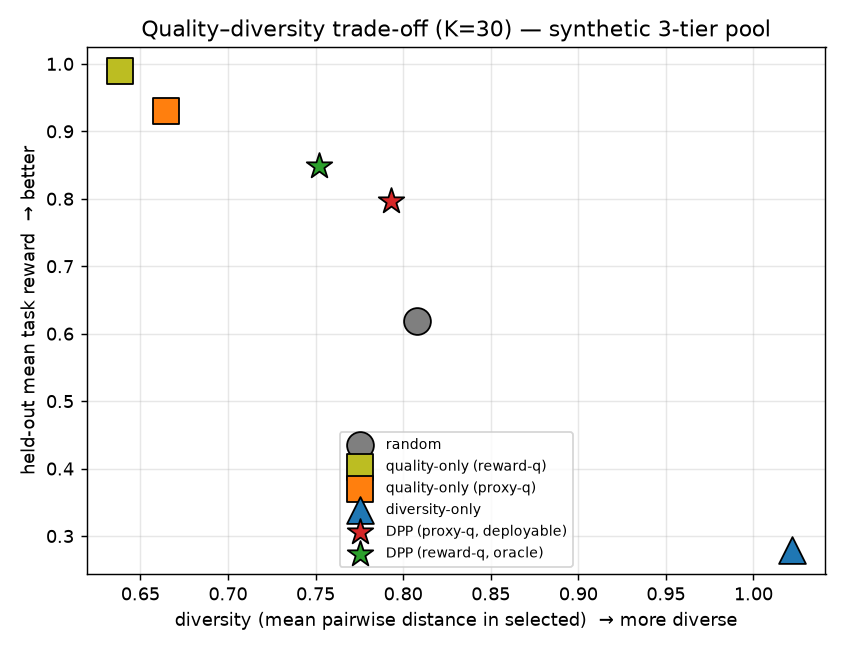
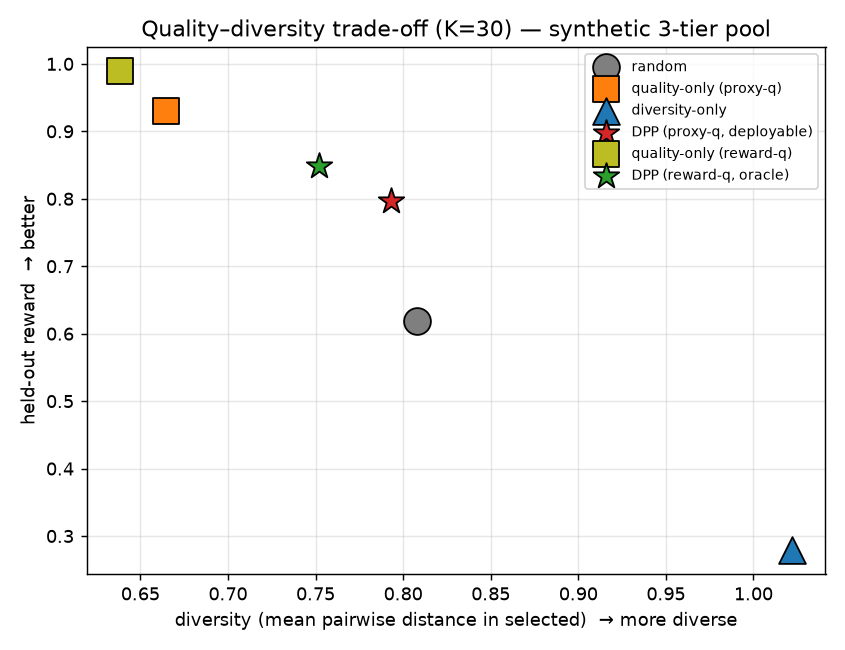
M1.5: real-data results on public LeRobot datasets (PushT + ALOHA-sim)
Ran the 6-selector proxy-q study on lerobot/pusht (206 demos) and lerobot/aloha_sim_insertion_human (50 demos, 14-DoF). Honest findings: on PushT reward-based curation picks measurably higher-reward demos than random (0.928 vs 0.893) and DPP adds diversity, but the reward-free proxy is uninformative (corr 0.09) because PushT ships only homogeneous expert teleop (reward band 0.81-0.95); next.success is absent. ALOHA-sim has no reward labels at all -> task-agnostic + proxy-only structural validation. Takeaway: the mixed-quality regime the method targets does not exist in public expert datasets and must be collected (M2). Adapter now handles missing reward/success gracefully; study reports n/a instead of crashing. README: Status box (M1.5 done), Real-data findings section. 31 offline tests still pass.

diff --git a/experiments/proxy_vs_oracle.py b/experiments/proxy_vs_oracle.py
@@ -1,27 +1,26 @@
 """M1.5 / M2.5: reward-free proxy-q curation study (synthetic OR real datasets).
 
-Compares six selectors and evaluates every selection against the HELD-OUT task
-reward/success -- a signal the proxy-q selectors never read (so a proxy-q win is
-not circular):
+Compares curation selectors and evaluates each selection against the HELD-OUT
+task reward -- a signal the proxy-q selectors never read (so a proxy-q win is not
+circular):
 
     random
-    quality-only (reward-q)   -- oracle, quality axis only
+    quality-only (reward-q)   -- oracle, quality axis only   (reward datasets only)
     quality-only (proxy-q)    -- deployable, quality axis only
     diversity-only            -- the failure-mode candidate
     DPP (proxy-q)             -- deployable quality x diversity
-    DPP (reward-q)            -- oracle quality x diversity
+    DPP (reward-q)            -- oracle quality x diversity    (reward datasets only)
 
 Sources:
-    synthetic  -- 3-tier expert/clumsy/noisy fixture (offline, $0)
-    pusht      -- lerobot/pusht                       (needs lerobot+torch)
-    aloha      -- lerobot/aloha_sim_insertion_human   (needs lerobot+torch)
-
-For real datasets there are no ground-truth tiers, so the composition diagnostic
-bins demos into reward terciles (used only for the plot, never for selection).
+    synthetic  -- 3-tier expert/clumsy/noisy fixture       (offline, $0)
+    pusht      -- lerobot/pusht                             (has reward)
+    aloha      -- lerobot/aloha_sim_insertion_human         (NO reward -> proxy-only,
+                  task-agnostic + diversity validation of the pipeline)
 
 Usage:
     python experiments/proxy_vs_oracle.py --source synthetic
     python experiments/proxy_vs_oracle.py --source pusht
+    python experiments/proxy_vs_oracle.py --source aloha
 """
 
 from __future__ import annotations
@@ -57,11 +56,10 @@ STYLE = {
 
 
 def load_pool(source: str, limit: int | None):
-    """Return a dict with embeddings, reward, success, kinematic proxies, and a
-    (name, color, mask) group spec for the composition diagnostic."""
     if source == "synthetic":
         p = make_labeled_pool(seed=0)
         p["name"] = "synthetic 3-tier pool"
+        p["reward_available"] = True
         p["groups"] = [
             ("expert", "tab:green", p["tier"] == EXPERT),
             ("clumsy", "gold", p["tier"] == CLUMSY),
@@ -75,17 +73,8 @@ def load_pool(source: str, limit: int | None):
 
     repo = "lerobot/pusht" if source == "pusht" else "lerobot/aloha_sim_insertion_human"
     d = load_lerobot_pool(repo, limit=limit, return_kinematics=True)
-    r = d["reward"]
-    lo, hi = np.quantile(r, [1 / 3, 2 / 3])
-    tercile = np.digitize(r, [lo, hi])  # 0 low, 1 mid, 2 high
     d["name"] = repo
-    d["groups"] = [
-        ("high-reward", "tab:green", tercile == 2),
-        ("mid-reward", "gold", tercile == 1),
-        ("low-reward", "tab:red", tercile == 0),
-    ]
-    d["bad_label"] = "low-reward%"
-    d["bad_mask"] = tercile == 0
+    d["reward_available"] = bool(np.isfinite(d["reward"]).any())
     return d
 
 
@@ -96,66 +85,102 @@ def run(source: str = "synthetic", k: int = 30, limit: int | None = None,
     X, reward, success = p["embeddings"], p["reward"], p["success"]
     n = len(X)
     k = min(k, n - 1)
+    reward_avail = p["reward_available"]
 
-    q_reward = normalize_quality(reward)
     q_proxy = proxy_quality(p["smoothness"], p["efficiency"], p["stability"])
-    corr = float(np.corrcoef(q_proxy, reward)[0, 1])
+    # evaluation score: the true reward when available, else the proxy itself
+    # (for reward-free datasets this is a structural/diversity validation only).
+    escore = reward if reward_avail else q_proxy
+    p["escore_name"] = "held-out reward" if reward_avail else "proxy score (no reward in dataset)"
+
+    # composition groups (terciles of the evaluation score) for real datasets
+    if source != "synthetic":
+        lo, hi = np.nanquantile(escore, [1 / 3, 2 / 3])
+        terc = np.digitize(escore, [lo, hi])
+        hi_name = "high-reward" if reward_avail else "high-proxy"
+        mid_name = "mid-reward" if reward_avail else "mid-proxy"
+        lo_name = "low-reward" if reward_avail else "low-proxy"
+        p["groups"] = [(hi_name, "tab:green", terc == 2),
+                       (mid_name, "gold", terc == 1),
+                       (lo_name, "tab:red", terc == 0)]
+        p["bad_label"] = lo_name + "%"
+        p["bad_mask"] = terc == 0
+
+    corr = (float(np.corrcoef(q_proxy, reward)[0, 1])
+            if reward_avail and np.std(q_proxy) > 1e-9 and np.nanstd(reward) > 1e-9
+            else float("nan"))
+    succ_ok = np.isfinite(success).any() and float(np.nanstd(success)) > 1e-9
 
     rng = np.random.default_rng(0)
     picks = {
         "random": select_random(n, k, rng),
-        "quality-only (reward-q)": select_quality_only(q_reward, k),
         "quality-only (proxy-q)": select_quality_only(q_proxy, k),
         "diversity-only": select_diversity_only(X, k),
         "DPP (proxy-q, deployable)": select_dpp(X, q_proxy, k),
-        "DPP (reward-q, oracle)": select_dpp(X, q_reward, k),
     }
+    if reward_avail:
+        q_reward = normalize_quality(reward)
+        picks["quality-only (reward-q)"] = select_quality_only(q_reward, k)
+        picks["DPP (reward-q, oracle)"] = select_dpp(X, q_reward, k)
 
     M = {}
     for name, sel in picks.items():
         sel = np.asarray(sel)
         M[name] = dict(
-            reward=float(np.mean(reward[sel])),
-            success=float(np.nanmean(success[sel])) if success.size else float("nan"),
+            escore=float(np.nanmean(escore[sel])),
+            success=float(np.nanmean(success[sel])) if succ_ok else float("nan"),
             diversity=diversity_spread(list(sel), X),
             bad=float(np.mean(p["bad_mask"][sel])),
             comp=[float(np.mean(mask[sel])) for _, _, mask in p["groups"]],
         )
 
-    _print(M, p, k, corr)
-    _plot(M, p, source, k, corr, out_dir)
+    _print(M, p, k, corr, succ_ok, reward_avail)
+    _plot(M, p, source, k, corr)
     return M
 
 
-def _print(M, p, k, corr):
+def _print(M, p, k, corr, succ_ok, reward_avail):
+    def f(v, w=8):
+        return f"{'n/a':>{w}}" if not np.isfinite(v) else f"{v:{w}.3f}"
+
     print(f"[data] {p['name']}: N={len(p['embeddings'])} demos, "
           f"embedding dim={p['embeddings'].shape[1]}")
-    print(f"[check] proxy-vs-reward correlation = {corr:.3f} "
-          f"(informative but NOT identical -> non-circular)\n")
-    print(f"=== held-out metrics of selected demos (K={k}) ===")
-    print(f"{'selector':30s} {'reward':>7s} {'success':>8s} {'divers':>7s} "
-          f"{p['bad_label']:>11s}")
+    if reward_avail:
+        tag = ("weak on this homogeneous pool" if np.isfinite(corr) and abs(corr) < 0.3
+               else "informative but NOT identical")
+        print(f"[check] proxy-vs-reward correlation = {f(corr, 5).strip()} ({tag})")
+    else:
+        print("[note] this dataset has NO reward labels -> reward-q selectors and "
+              "held-out reward evaluation are N/A; proxy-only structural validation.")
+    if reward_avail and not succ_ok:
+        print("[note] success labels absent/degenerate -> using reward only")
+    score_hdr = "reward" if reward_avail else "proxy"
+    print(f"\n=== held-out metrics of selected demos (K={k}) ===")
+    print(f"{'selector':30s} {score_hdr:>7s} {'success':>8s} {'divers':>7s} "
+          f"{p['bad_label']:>12s}")
     for name, m in M.items():
-        print(f"{name:30s} {m['reward']:7.3f} {m['success']:8.3f} "
-              f"{m['diversity']:7.3f} {m['bad']:11.2f}")
+        print(f"{name:30s} {f(m['escore'],7)} {f(m['success'])} "
+              f"{f(m['diversity'],7)} {m['bad']:12.2f}")
 
 
-def _plot(M, p, source, k, corr, out_dir):
+def _plot(M, p, source, k, corr):
     import matplotlib
 
     matplotlib.use("Agg")
     import matplotlib.pyplot as plt
 
+    out_dir = Path(__file__).resolve().parents[1] / "outputs"
     out_dir.mkdir(parents=True, exist_ok=True)
     names = list(M.keys())
     x = np.arange(len(names))
-    short = [n.replace(" (", "\n(") for n in names]
+    short = [nm.replace(" (", "\n(") for nm in names]
+    ylab = p["escore_name"]
 
     # 1) composition (stacked)
     fig, ax = plt.subplots(figsize=(8.5, 4.5))
     bottom = np.zeros(len(names))
     for gi, (gname, gcolor, _) in enumerate(p["groups"]):
-        vals = np.array([M[n]["comp"][gi] for n in names])
+        vals = np.array([M[nm]["comp"][gi] for nm in names])
         ax.bar(x, vals, bottom=bottom, label=gname, color=gcolor, edgecolor="k")
         bottom += vals
     ax.set_xticks(x); ax.set_xticklabels(short, fontsize=8)
@@ -166,29 +191,30 @@ def _plot(M, p, source, k, corr, out_dir):
     fig.savefig(out_dir / f"selector_composition_{source}.png", dpi=130)
     plt.close(fig)
 
-    # 2) held-out reward bar
+    # 2) evaluation-score bar
     fig, ax = plt.subplots(figsize=(8.5, 4.3))
-    ax.bar(x, [M[n]["reward"] for n in names],
-           color=[STYLE[n][0] for n in names], edgecolor="k", zorder=3)
+    ax.bar(x, [M[nm]["escore"] for nm in names],
+           color=[STYLE[nm][0] for nm in names], edgecolor="k", zorder=3)
     ax.set_xticks(x); ax.set_xticklabels(short, fontsize=8)
-    ax.set_ylabel("held-out mean task reward of selected demos")
-    ax.set_title(f"Reward-free proxy-q recovers high-reward demos "
-                 f"(K={k}, corr={corr:.2f}) — {p['name']}")
+    ax.set_ylabel(ylab)
+    title2 = (f"Reward-free proxy-q recovers high-reward demos (K={k}, corr={corr:.2f})"
+              if np.isfinite(corr) else f"Selected-set score (K={k})")
+    ax.set_title(f"{title2} — {p['name']}")
     ax.grid(axis="y", alpha=0.3)
     fig.tight_layout()
     fig.savefig(out_dir / f"reward_free_proxy_vs_reward_{source}.png", dpi=130)
     plt.close(fig)
 
-    # 3) quality-diversity pareto
+    # 3) score-diversity pareto
     fig, ax = plt.subplots(figsize=(6.5, 5))
     for name, m in M.items():
         c, mk = STYLE[name]
-        ax.scatter(m["diversity"], m["reward"], c=c, marker=mk, s=220,
+        ax.scatter(m["diversity"], m["escore"], c=c, marker=mk, s=220,
                    edgecolor="k", label=name, zorder=3)
     ax.set_xlabel("diversity (mean pairwise distance in selected)  → more diverse")
-    ax.set_ylabel("held-out mean task reward  → better")
+    ax.set_ylabel(f"{ylab}  → better")
     ax.set_title(f"Quality–diversity trade-off (K={k}) — {p['name']}")
-    ax.legend(fontsize=8, loc="lower center")
+    ax.legend(fontsize=8, loc="best")
     ax.grid(alpha=0.3)
     fig.tight_layout()
     fig.savefig(out_dir / f"quality_diversity_pareto_{source}.png", dpi=130)
@@ -202,9 +228,8 @@ def main():
                     choices=["synthetic", "pusht", "aloha"])
     ap.add_argument("--k", type=int, default=30)
     ap.add_argument("--limit", type=int, default=None)
-    ap.add_argument("--out", default=None)
     args = ap.parse_args()
-    run(args.source, args.k, args.limit, Path(args.out) if args.out else None)
+    run(args.source, args.k, args.limit)
 
 
 if __name__ == "__main__":

diff --git a/robocurate/pusht.py b/robocurate/pusht.py
@@ -138,13 +138,15 @@ def load_lerobot_pool(
 
         if reward is not None and np.ptp(reward[m]) > 0:
             quality.append(float(reward[m].max()))
-        elif success is not None:
+        elif success is not None and np.ptp(success[m]) > 0:
             quality.append(float(success[m].mean()))
         elif reward is not None:
             quality.append(float(reward[m][-1]))
+        elif return_kinematics:
+            quality.append(float("nan"))   # reward-free dataset (e.g. ALOHA): proxy-q only
         else:
             raise KeyError(
-                f"no reward/success column found in {repo_id} "
+                f"no usable reward/success column in {repo_id} "
                 f"(columns: {hf.column_names})"
             )
 

diff --git a/README.md b/README.md
@@ -18,7 +18,7 @@ useful through automatic informativeness-aware curation?*
 |-------|------|-------|
 | **M1**   | quality×diversity DPP engine + ablation            | ✅ done, offline-verified (31 tests) |
 | **M2.5** | reward-free proxy-q, non-circular study            | ✅ done, offline (synthetic) |
-| **M1.5** | run on public datasets (PushT, ALOHA-sim)          | ⏳ one command — `--source pusht` |
+| **M1.5** | run on public datasets (PushT, ALOHA-sim)          | ✅ done — real results in `outputs/`, see below |
 | **M2**   | mouse-teleop non-expert collection                 | ⬜ planned |
 | **M3**   | downstream Diffusion Policy (curated vs random)    | ⬜ planned |
 
@@ -109,6 +109,38 @@ non-expert collection often has no reward function at all. Figures in `outputs/`
 > Note: `reward-q` is an oracle upper bound; `proxy-q` is the deployable setting.
 > The cleanest non-circular evidence of all is **M3** (downstream policy success),
 > which measures a different quantity from the reward used to select.
+
+## Real-data findings (M1.5): PushT + ALOHA-sim
+
+The same pipeline runs unchanged on two public LeRobot datasets, on CPU.
+
+**`lerobot/pusht`** (206 human demos, 24-d embedding). Reward-based curation *does*
+pick measurably higher-reward demos than random — but the margin is small because
+PushT ships only expert teleop (per-episode reward 0.81–0.95, a narrow band):
+
+| selector (K=30)          | held-out reward ↑ | diversity ↑ | low-reward % ↓ |
+|--------------------------|:-----------------:|:-----------:|:--------------:|
+| random                   | 0.893             | 0.055       | 0.27           |
+| quality-only (reward-q)  | **0.928**         | 0.057       | 0.00           |
+| DPP (reward-q)           | 0.917             | 0.069       | 0.00           |
+| DPP (proxy-q)            | 0.889             | 0.082       | 0.37           |
+
+The **reward-free proxy is uninformative here** (proxy–reward correlation ≈ 0.09):
+homogeneous expert demos give kinematics little skill variance to capture.
+`next.success` is absent in this dataset → reward only.
+
+**`lerobot/aloha_sim_insertion_human`** (50 demos, 14-DoF, 168-d embedding) ships
+**no reward labels at all** — the pure deployable setting. We can only validate that
+the pipeline is *task-agnostic* (loads, embeds, computes reward-free kinematics, and
+curates); demos are near-identical (diversity ≈ 0.03), so little separates them.
+
+**Takeaway — this is the point.** On clean, homogeneous *expert* datasets, curation
+has little to gain and reward-free proxies are uninformative. The mixed-quality,
+skill-heterogeneous regime the method targets does **not** exist in public
+demonstration datasets — it has to be *collected* (M2). Running on real data thus
+empirically motivates the low-barrier non-expert collection step — an honest signal
+the synthetic sanity check cannot provide. Figures: `outputs/*_pusht.png`,
+`outputs/*_aloha.png`.
 
 ## Quickstart
 